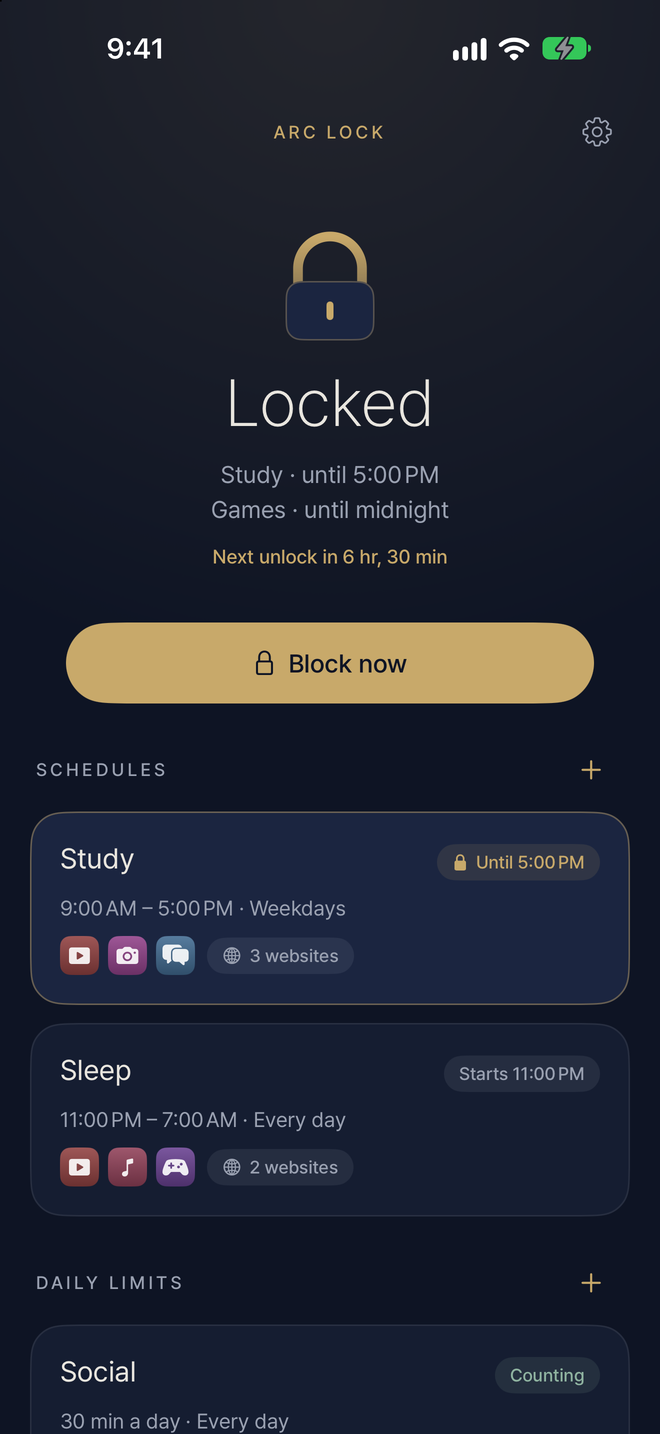
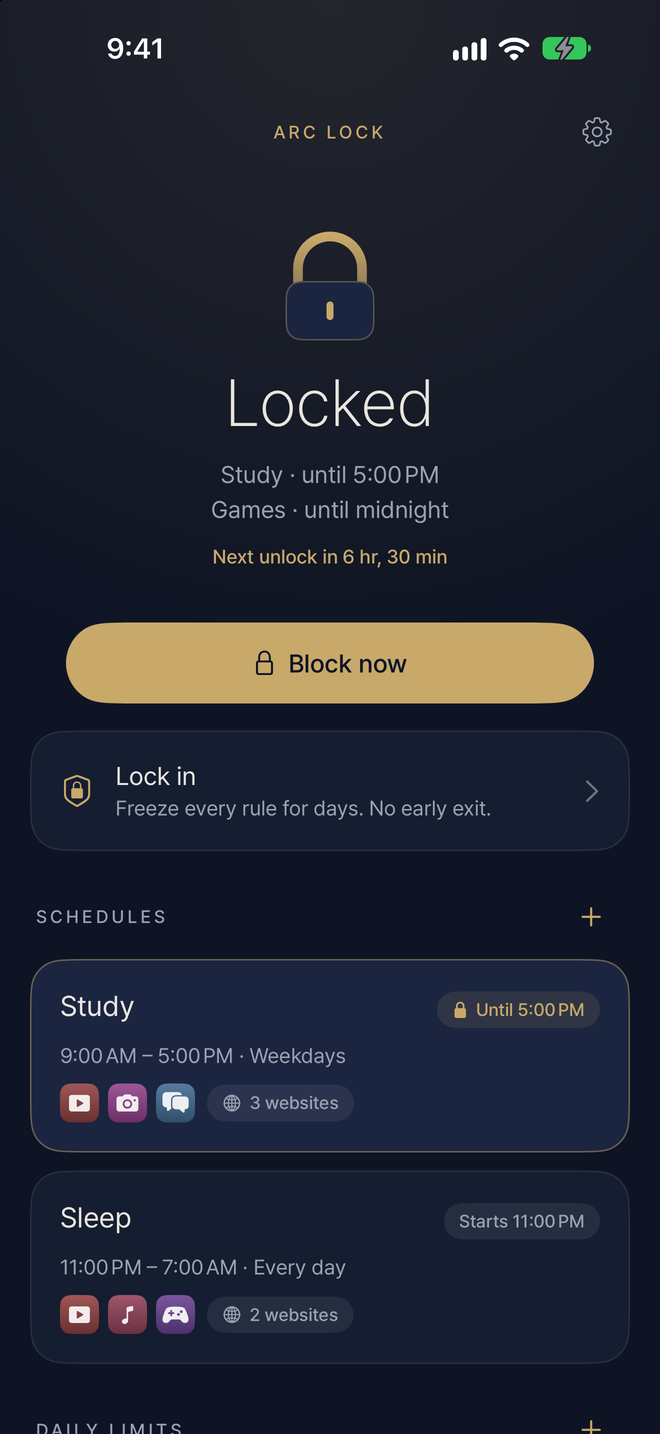
Deletion protection on by default, Lock-in on the home screen, friend passcode guide moved to About

diff --git a/App/Views/SettingsView.swift b/App/Views/SettingsView.swift
@@ -3,7 +3,6 @@ import SwiftUI
 struct SettingsView: View {
     @EnvironmentObject private var model: AppModel
     @Environment(\.dismiss) private var dismiss
-    @State private var showLockIn = false
     @State private var showGuide = false
 
     var body: some View {
@@ -12,21 +11,7 @@ struct SettingsView: View {
                 Backdrop()
                 ScrollView {
                     VStack(spacing: 18) {
-                        lockInCard
-                        Button { showGuide = true } label: {
-                            Card {
-                                HStack(spacing: 14) {
-                                    Image(systemName: "key.horizontal").font(.system(size: 20, weight: .light)).foregroundStyle(Palette.brass)
-                                    VStack(alignment: .leading, spacing: 3) {
-                                        Text("Make it harder to break").font(.p(17, .regular)).foregroundStyle(Palette.ink)
-                                        Text("Close the last way out, in iOS Settings").font(.p(14, .regular)).foregroundStyle(Palette.muted)
-                                    }
-                                    Spacer()
-                                    Image(systemName: "chevron.right").foregroundStyle(Palette.faint)
-                                }
-                            }
-                        }
-                        .buttonStyle(.plain)
+                        protectionCard
                         Card {
                             Toggle(isOn: Binding(get: { model.state.headsUp }, set: { model.setHeadsUp($0) })) {
                                 VStack(alignment: .leading, spacing: 3) {
@@ -45,31 +30,42 @@ struct SettingsView: View {
             .navigationTitle(Text("Settings"))
             .navigationBarTitleDisplayMode(.inline)
             .toolbar { ToolbarItem(placement: .confirmationAction) { Button("Done") { dismiss() } } }
-            .sheet(isPresented: $showLockIn) { LockInSheet().environmentObject(model) }
             .sheet(isPresented: $showGuide) { HarderGuide() }
         }
         .presentationBackground(Palette.night)
         #if DEBUG
         .onAppear {
-            if Demo.shot == "lockin" { showLockIn = true }
             if Demo.shot == "guide" { showGuide = true }
         }
         #endif
     }
 
-    private var lockInCard: some View {
-        Card(glow: model.lockInActive) {
-            VStack(alignment: .leading, spacing: 12) {
-                Eyebrow("Lock-in", color: model.lockInActive ? Palette.brass : Palette.muted)
-                if model.lockInActive, let until = model.state.lockInUntil {
-                    Text("Locked in through \(Fmt.lastDay(endingAt: until))").font(.p(20, .light, .title3)).foregroundStyle(Palette.ink)
-                    Text("Until then no rule can be loosened or deleted and no app can be deleted from this iPhone. You can still add blocks.")
-                        .font(.p(14, .regular)).foregroundStyle(Palette.muted)
-                    Button("Make it longer") { showLockIn = true }.buttonStyle(GhostButton(tint: Palette.brass))
-                } else {
-                    Text("Freeze all your rules for a few days — even between blocks. No loosening, no deleting, no deleting apps.")
-                        .font(.p(15, .regular)).foregroundStyle(Palette.muted)
-                    Button("Lock in…") { showLockIn = true }.buttonStyle(GhostButton(tint: Palette.brass))
+    private var protectionCard: some View {
+        Card(glow: model.state.deletionProtection) {
+            VStack(alignment: .leading, spacing: 10) {
+                Toggle(isOn: Binding(get: { model.state.deletionProtection && model.state.deletionProtectionOffAt == nil },
+                                     set: { on in
+                                         switch model.setDeletionProtection(on) {
+                                         case .refused(let why): model.problem = why
+                                         case .scheduled(let at): model.toast = String(localized: "Deletion protection turns off at \(Fmt.moment(at, now: model.now)).")
+                                         case .saved: break
+                                         }
+                                     })) {
+                    VStack(alignment: .leading, spacing: 3) {
+                        Text("Deletion protection").font(.p(17, .regular)).foregroundStyle(Palette.ink)
+                        Text("No app can be deleted from this iPhone, Arc Lock included. Turning it off takes effect at midnight.")
+                            .font(.p(14, .regular)).foregroundStyle(Palette.muted)
+                    }
+                }
+                .tint(Palette.brass)
+                if model.state.deletionProtection, let off = model.state.deletionProtectionOffAt {
+                    HStack {
+                        Text("Turns off at \(Fmt.moment(model.lockInActive ? max(off, model.state.lockInUntil ?? off) : off, now: model.now))")
+                            .font(.p(13, .regular, .footnote)).foregroundStyle(Palette.brass)
+                        Spacer()
+                        Button("Keep it on") { _ = model.setDeletionProtection(true) }
+                            .font(.p(14, .medium)).foregroundStyle(Palette.brass)
+                    }
                 }
             }
         }
@@ -83,6 +79,14 @@ struct SettingsView: View {
                 link("Source code (MIT)", "https://github.com/WeldingArc/arc-lock")
                 link("Privacy: nothing leaves this iPhone", "https://github.com/WeldingArc/arc-lock/blob/main/PRIVACY.md")
                 link("Report a problem", "https://github.com/WeldingArc/arc-lock/issues")
+                Button { showGuide = true } label: {
+                    HStack {
+                        Text("Extra protection with a friend").font(.p(16, .regular)).foregroundStyle(Palette.ink)
+                        Spacer()
+                        Image(systemName: "chevron.right").font(.system(size: 13)).foregroundStyle(Palette.faint)
+                    }
+                }
+                .buttonStyle(.plain)
                 Text("Arc Lock \(Bundle.main.object(forInfoDictionaryKey: "CFBundleShortVersionString") as? String ?? "") · Free, no account, no ads. Pretendard font under the SIL Open Font License.")
                     .font(.p(12, .regular, .caption)).foregroundStyle(Palette.faint)
             }
@@ -162,8 +166,7 @@ struct LockInSheet: View {
     }
 }
 
-/// iOS always lets the owner turn off an app's Screen Time access in Settings. This page explains how to put
-/// that door behind a Screen Time passcode someone else keeps.
+/// Optional: lock iOS's Screen Time settings with a passcode a friend keeps.
 struct HarderGuide: View {
     @Environment(\.dismiss) private var dismiss
     var body: some View {
@@ -172,15 +175,13 @@ struct HarderGuide: View {
                 Backdrop()
                 ScrollView {
                     VStack(alignment: .leading, spacing: 18) {
-                        Text("Make it harder to break").font(.p(30, .extraLight, .largeTitle)).foregroundStyle(Palette.ink)
+                        Text("Extra protection").font(.p(30, .extraLight, .largeTitle)).foregroundStyle(Palette.ink)
                             .frame(maxWidth: .infinity).multilineTextAlignment(.center).padding(.top, 8)
-                        Text("Arc Lock already stops you from changing a running block, deleting apps, or setting the clock back. One door stays open by Apple's design: the iPhone's owner can switch off Arc Lock's Screen Time access in Settings. On iOS 26.4 and later, a Screen Time passcode you don't know closes that door too.")
+                        Text("Put iOS's own Screen Time settings behind a passcode that only a friend knows.")
                             .font(.p(15, .regular)).foregroundStyle(Palette.muted)
                         step(1, "Ask a friend to hold a passcode", "Pick someone you trust. They'll type a 4-digit code you don't see.")
                         step(2, "Open Settings › Screen Time", "Tap “Lock Screen Time Settings” (or “Use Screen Time Passcode”) and hand your friend the phone.")
                         step(3, "Recovery goes to your friend", "When iOS asks for an Apple Account to recover the passcode, your friend enters their own. Don't skip this: a passcode nobody can recover can mean erasing the iPhone.")
-                        step(4, "Keep iOS up to date", "Some iOS versions still let Face ID switch access off under Settings › Apps › Arc Lock. Updates close gaps like this.")
-                        step(5, "Optional: stop app deletion for good", "In Screen Time › Content & Privacy Restrictions, set Deleting Apps to Don't Allow.")
                         Text("In a real emergency your friend can always give you the code. That's the point: a pause long enough for the urge to pass.")
                             .font(.p(14, .regular)).foregroundStyle(Palette.faint)
                     }

diff --git a/App/Views/HomeView.swift b/App/Views/HomeView.swift
@@ -14,6 +14,7 @@ struct HomeView: View {
     @State private var editing: EditorTarget?
     @State private var showBlockNow = false
     @State private var showSettings = false
+    @State private var showLockIn = false
 
     var body: some View {
         ScrollViewReader { proxy in
@@ -22,13 +23,13 @@ struct HomeView: View {
                 header
                 StatusHero()
                 sessionArea
-                if model.lockInActive, let until = model.state.lockInUntil { LockInBanner(until: until) }
+                lockInArea
                 section(title: "Schedules", kind: .schedule, rules: model.schedules,
                         empty: "Pick apps and websites and the hours they stay locked.")
                 section(title: "Daily limits", kind: .limit, rules: model.limits,
                         empty: "After the time you allow each day, apps lock until midnight.")
                     .id("limits")
-                Text("While a block runs it can't be changed or stopped, and no app can be deleted. While any block is switched on, the clock stays automatic.")
+                Text("While a block runs it can't be changed or stopped. With deletion protection on, no app can be deleted.")
                     .font(.p(13, .regular, .footnote))
                     .foregroundStyle(Palette.faint)
                     .multilineTextAlignment(.center)
@@ -46,13 +47,15 @@ struct HomeView: View {
         .sheet(item: $editing) { target in RuleEditor(target: target).environmentObject(model) }
         .sheet(isPresented: $showBlockNow) { BlockNowSheet().environmentObject(model) }
         .sheet(isPresented: $showSettings) { SettingsView().environmentObject(model) }
+        .sheet(isPresented: $showLockIn) { LockInSheet().environmentObject(model) }
         #if DEBUG
         .onAppear {
             switch Demo.shot {
             case "editor": editing = .edit(Demo.study)
             case "limit": editing = .edit(Demo.social)
             case "blocknow": showBlockNow = true
-            case "settings", "lockin", "guide": showSettings = true
+            case "settings", "guide": showSettings = true
+            case "lockin": showLockIn = true
             default: break
             }
         }
@@ -94,6 +97,27 @@ struct HomeView: View {
             }
             .buttonStyle(BrassButton())
             .padding(.horizontal, 24)
+        }
+    }
+
+    @ViewBuilder private var lockInArea: some View {
+        if model.lockInActive, let until = model.state.lockInUntil {
+            Button { showLockIn = true } label: { LockInBanner(until: until) }.buttonStyle(.plain)
+        } else {
+            Button { showLockIn = true } label: {
+                Card {
+                    HStack(spacing: 14) {
+                        Image(systemName: "lock.shield").font(.system(size: 22, weight: .light)).foregroundStyle(Palette.brass)
+                        VStack(alignment: .leading, spacing: 3) {
+                            Text("Lock in").font(.p(17, .regular)).foregroundStyle(Palette.ink)
+                            Text("Freeze every rule for days. No early exit.").font(.p(14, .regular)).foregroundStyle(Palette.muted)
+                        }
+                        Spacer()
+                        Image(systemName: "chevron.right").foregroundStyle(Palette.faint)
+                    }
+                }
+            }
+            .buttonStyle(.plain)
         }
     }
 

diff --git a/Shared/Engine.swift b/Shared/Engine.swift
@@ -35,6 +35,10 @@ enum Shielding {
         if on { holdDevice(store) } else { store.clearAllSettings() }
     }
 
+    static func guardDeletion(_ on: Bool) {
+        ManagedSettingsStore(named: Names.guardStore).application.denyAppRemoval = on ? true : nil
+    }
+
     static func holdClock(_ on: Bool) {
         ManagedSettingsStore(named: Names.clockStore).dateAndTime.requireAutomaticDateAndTime = on ? true : nil
     }
@@ -201,6 +205,7 @@ enum Engine {
         let lockIn = (state.lockInUntil?.timeIntervalSince(now) ?? 0) > edge
         Shielding.setLockIn(lockIn)
         Shielding.holdClock(lockIn || sessionOn || state.rules.contains { $0.plan.isOn || $0.pending != nil })
+        Shielding.guardDeletion(state.onboarded && state.deletionProtection)
     }
 
     /// Whether a rule should shield at `now` (see `edge`).
@@ -222,12 +227,17 @@ enum Engine {
         var st = StateStore.load()
         func tidy(_ s: inout ArcState) -> Set<UUID> {
             if let l = s.lockInUntil, l <= now { s.lockInUntil = nil }
+            if let off = s.deletionProtectionOffAt, off <= now, (s.lockInUntil ?? .distantPast) <= now {
+                s.deletionProtection = false
+                s.deletionProtectionOffAt = nil
+            }
             if let sess = s.session, sess.endsAt <= now { s.session = nil }
             return Pending.applyDue(&s.rules, now: now, frozenUntil: s.lockInUntil)
         }
         var probe = st
         let due = tidy(&probe)
-        guard !due.isEmpty || probe.session != st.session || probe.lockInUntil != st.lockInUntil else { return (st, false) }
+        guard !due.isEmpty || probe.session != st.session || probe.lockInUntil != st.lockInUntil
+              || probe.deletionProtection != st.deletionProtection else { return (st, false) }
         st = StateStore.update { fresh in
             let ids = tidy(&fresh)
             for id in ids {

diff --git a/Shared/ArcShared.swift b/Shared/ArcShared.swift
@@ -31,6 +31,9 @@ struct ArcState: Codable, Equatable {
     var lastSessionMinutes = 60
     var headsUp = true
     var onboarded = false
+    /// No app (Arc Lock included) can be deleted while this is on. On by default; switching it off waits for midnight.
+    var deletionProtection = true
+    var deletionProtectionOffAt: Date?
     /// Rule id → store slot. iOS allows an app 50 named stores in total, so rules reuse a fixed pool of slots.
     var slots: [String: Int] = [:]
     /// Set when some saved rule couldn't be read (never saved itself): the raw data is kept before overwriting.
@@ -38,6 +41,7 @@ struct ArcState: Codable, Equatable {
 
     enum CodingKeys: String, CodingKey {
         case rules, session, lockInUntil, lastSessionSelection, lastSessionMinutes, headsUp, onboarded, slots
+        case deletionProtection, deletionProtectionOffAt
     }
 
     init() {}
@@ -66,6 +70,8 @@ struct ArcState: Codable, Equatable {
         headsUp = (try? c.decode(Bool.self, forKey: .headsUp)) ?? true
         onboarded = (try? c.decode(Bool.self, forKey: .onboarded)) ?? false
         slots = (try? c.decode([String: Int].self, forKey: .slots)) ?? [:]
+        deletionProtection = (try? c.decode(Bool.self, forKey: .deletionProtection)) ?? true
+        deletionProtectionOffAt = try? c.decode(Date.self, forKey: .deletionProtectionOffAt)
     }
 }
 
@@ -196,6 +202,8 @@ enum Names {
     /// Keeps the clock automatic while any block is switched on, so it can't be set forward past a block or a
     /// change waiting for midnight.
     static let clockStore = ManagedSettingsStore.Name("clock")
+    /// Deletion protection (always-on, separate from blocks).
+    static let guardStore = ManagedSettingsStore.Name("guard")
 }
 
 extension FamilyActivitySelection {

diff --git a/App/AppModel.swift b/App/AppModel.swift
@@ -182,7 +182,8 @@ final class AppModel: ObservableObject {
         // re-check when a block, a session or a lock-in has just ended, or a pending change is due
         let ended = before.contains { $0 <= now }
         let due = state.rules.contains { $0.pending.map { effectiveDate($0) <= now } ?? false }
-        if ended || due || (state.lockInUntil.map { $0 <= now } ?? false) { refresh() }
+        let protectionDue = state.deletionProtectionOffAt.map { $0 <= now } ?? false
+        if ended || due || protectionDue || (state.lockInUntil.map { $0 <= now } ?? false) { refresh() }
     }
 
     private func commit(_ change: (inout ArcState) -> Void) {
@@ -217,6 +218,23 @@ final class AppModel: ObservableObject {
     func finishOnboarding() { commit { $0.onboarded = true } }
 
     func setHeadsUp(_ on: Bool) { commit { $0.headsUp = on } }
+
+    // MARK: deletion protection
+
+    /// Switching on applies now; switching off waits for midnight (and for a lock-in to end), like any looser change.
+    func setDeletionProtection(_ on: Bool) -> Outcome {
+        if !demo { now = Date() }
+        if on {
+            commit { $0.deletionProtection = true; $0.deletionProtectionOffAt = nil }
+            return .saved
+        }
+        if lockInActive, let until = state.lockInUntil {
+            return .refused(Self.lockedMessage(until: until, reason: .lockIn, now: now))
+        }
+        let at = ScheduleMath.startOfNextDay(after: now, calendar: calendar)
+        commit { $0.deletionProtectionOffAt = at }
+        return .scheduled(at)
+    }
 
     // MARK: rules
 

diff --git a/App/Views/OnboardingView.swift b/App/Views/OnboardingView.swift
@@ -63,7 +63,7 @@ struct OnboardingView: View {
             VStack(spacing: 26) {
                 feature("calendar.badge.clock", "Schedules", "Pick apps and websites and the hours they stay locked.")
                 feature("hourglass", "Daily limits", "After the time you allow, they lock until midnight.")
-                feature("lock.fill", "No early exit", "While a block runs you can't stop it in the app, delete apps, or change the clock.")
+                feature("lock.fill", "No early exit", "A running block can't be stopped, and Arc Lock can't be deleted.")
             }
             .padding(.top, 8)
         }, button: "Continue", action: { page = 2 })

diff --git a/README.md b/README.md
@@ -29,6 +29,7 @@ Most blockers keep their "hard mode" — the part that actually stops you — be
   - the date and time can't be changed by hand (they stay automatic as long as any block is switched on),
   - the block screen has exactly one button: **Close**.
 - **Daily limits are locked in for the day** — you can make a limit stricter once a day (what you've already used today keeps counting); more time, fewer apps, deleting it or a second change only take effect at midnight.
+- **Deletion protection** — on by default: no app can be deleted from the iPhone, Arc Lock included. Switching it off only takes effect at midnight.
 - **Lock-in** — freeze every rule for 1–30 days, even between blocks. No loosening, no deleting rules, no deleting apps — and changes you queued before it wait until it's over. No early exit.
 
 ## How it works
@@ -88,18 +89,6 @@ All of it lives in [`Core/ArcCore.swift`](Core/ArcCore.swift) — plain Swift wi
 | a schedule **between windows** | change anything — a schedule lasts at most 22 hours, and all schedules together must leave a free hour every day, so there's always such a time (and Arc Lock can always be opened, even if a block includes it) |
 
 "Stricter" is computed, not guessed: more apps, more days, fewer minutes, or a time window that covers the old one.
-
-## What it can't stop (honestly)
-
-Apple designs the Screen Time API so the iPhone's owner always keeps a way out:
-
-- **Switching off Arc Lock's Screen Time access** in Settings (Screen Time › Apps With Screen Time Access, or Settings › Apps › Arc Lock) removes every block at once. Arc Lock can't prevent that.
-  - **The fix:** on iOS 26.4 and later, a **Screen Time passcode** also protects that switch. Ask a friend to set one — and to enter *their own* Apple Account for passcode recovery. Don't skip recovery: a passcode nobody can recover may mean erasing the phone. Arc Lock walks you through this in **Settings › Make it harder to break**.
-  - Some iOS 26 versions still let Face ID flip the switch under Settings › Apps › Arc Lock — keep iOS up to date.
-- **Websites picked in Apple's picker** are shielded in Safari; add a site **by address** to block it in every browser. If a site still opens right after a block starts, close and reopen the browser.
-- **Erasing the iPhone** removes everything, of course.
-
-Arc Lock is a speed bump for impulses, not a prison. That's also why nothing in it is ever permanent: every block, limit and lock-in ends on its own.
 
 ## Privacy
 
